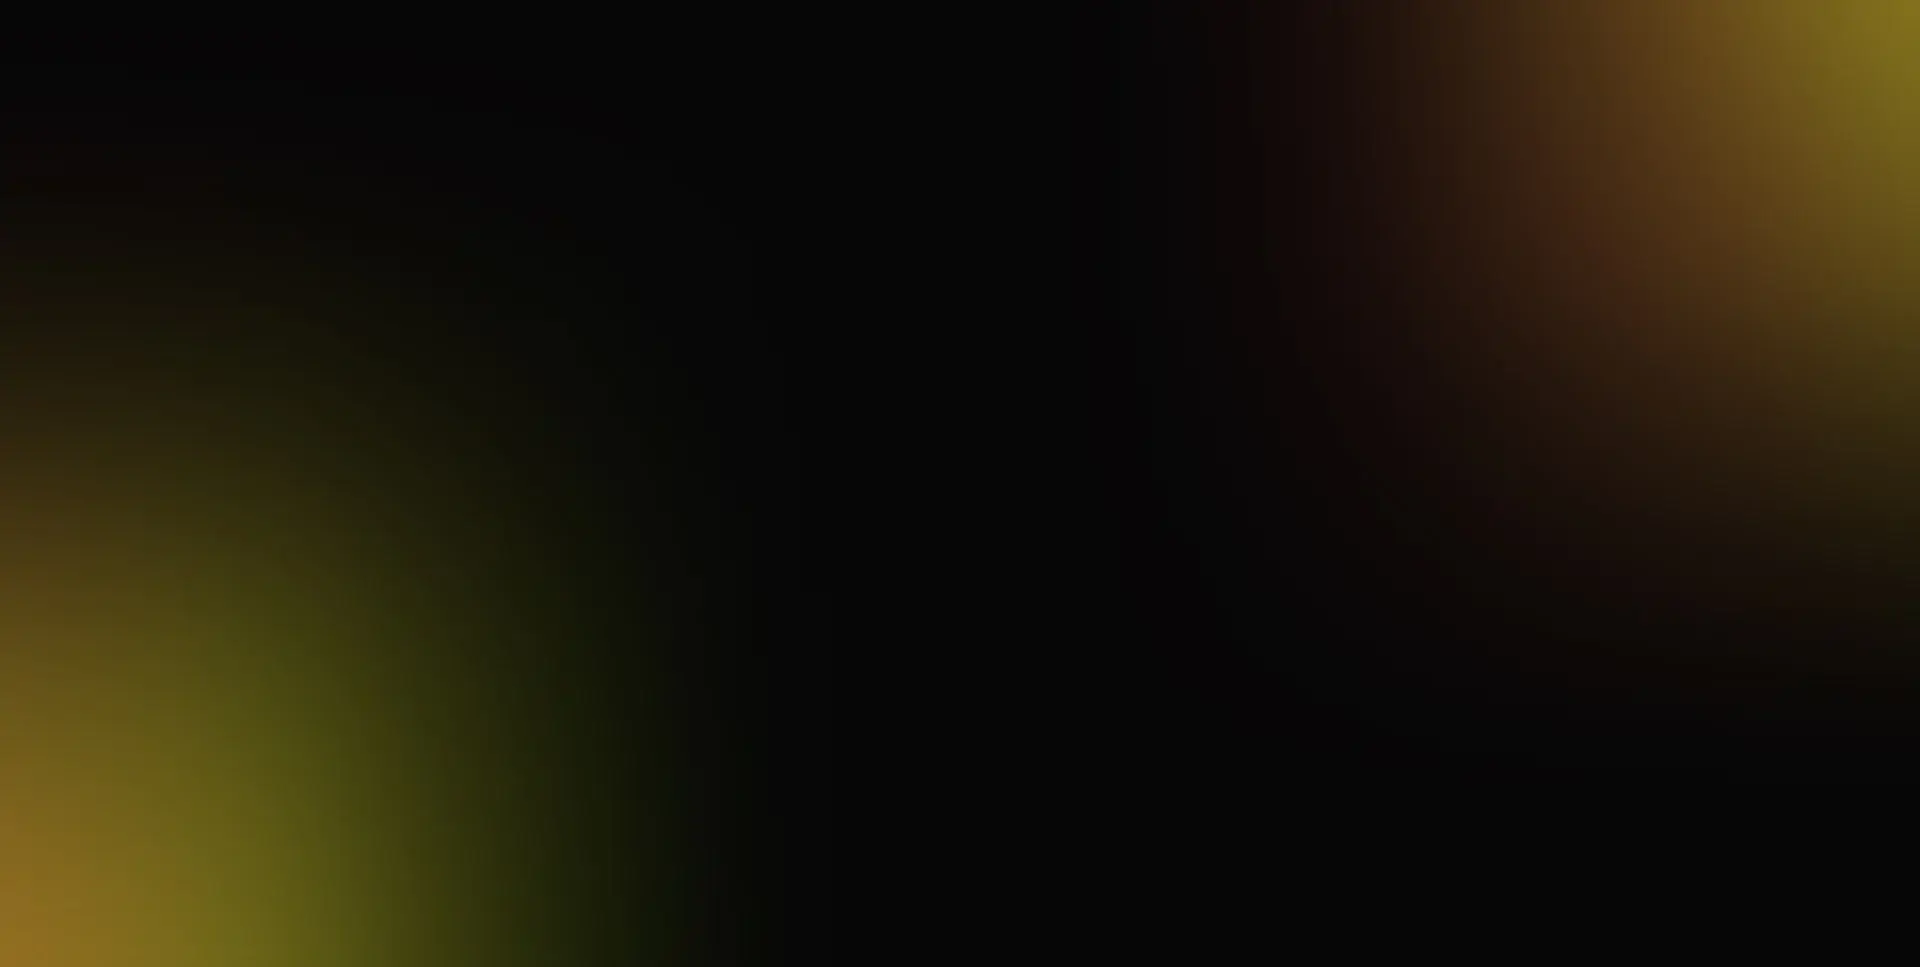
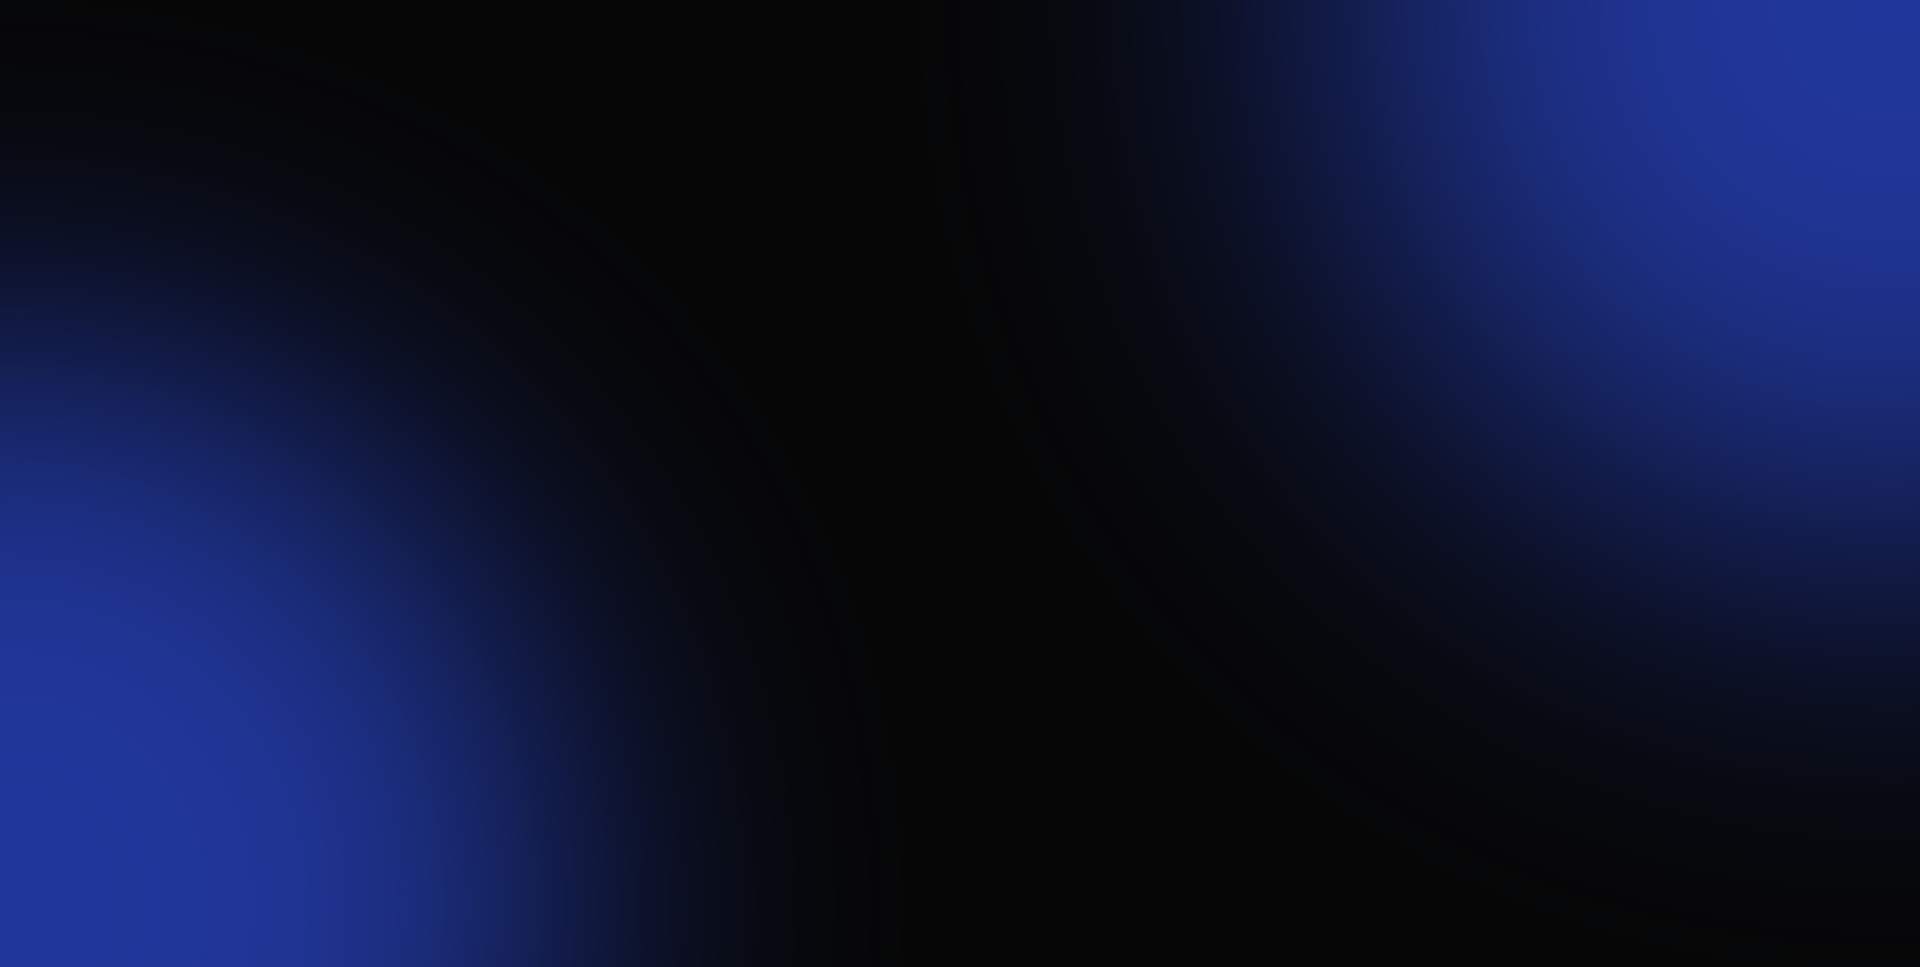
new changes

diff --git a/components/sections/HeroSection.jsx b/components/sections/HeroSection.jsx
@@ -1,107 +1,159 @@
 "use client";
+import React, { useRef, useState } from "react";
 import { withBasePath } from "@/lib/asset";
 import { homeData } from "@/lib/data/home";
 
-const HeroSection = () => (
-  <section className="hero-section"
-    style={{ width: "100%", position: "relative", paddingTop: "95px", minHeight: "80vh", lineHeight: 0, background: "#030303", overflow: "hidden" }}
-    data-background={homeData.hero.bgImage}>
+const HeroSection = () => {
+  const videoRef = useRef(null);
+  const [isMuted, setIsMuted] = useState(true);
 
-    <video
-      autoPlay
-      loop
-      muted
-      playsInline
-      className="bg_video"
-      style={{
-        width: "100%",
-        height: "auto",
-        display: "block",
-      }}
-    >
-      <source src={withBasePath(homeData.hero.videoSrc)} type="video/mp4" />
-    </video>
+  const toggleMute = (e) => {
+    e.stopPropagation();
+    if (videoRef.current) {
+      videoRef.current.muted = !videoRef.current.muted;
+      setIsMuted(videoRef.current.muted);
+    }
+  };
 
-    <div
-      style={{
-        display: "flex",
-        flexDirection: "column",
-        alignItems: "center",
-        justifyContent: "center",
-        zIndex: 10,
-        padding: "40px 0 20px 0",
-        pointerEvents: "none",
-        opacity: 0.6,
-        background: "transparent"
-      }}
-      className="scroll-indicator"
-    >
-      <div className="mouse-icon">
-        <div className="wheel"></div>
+  return (
+    <section className="hero-section"
+      style={{ width: "100%", position: "relative", paddingTop: "95px", minHeight: "80vh", lineHeight: 0, background: "#030303", overflow: "hidden" }}
+      data-background={homeData.hero.bgImage}>
+
+      <video
+        ref={videoRef}
+        autoPlay
+        loop
+        muted={isMuted}
+        playsInline
+        className="bg_video"
+        style={{
+          width: "100%",
+          height: "auto",
+          display: "block",
+        }}
+      >
+        <source src={withBasePath(homeData.hero.videoSrc)} type="video/mp4" />
+      </video>
+
+      {/* Mute/Unmute Toggle Button */}
+      <button 
+        onClick={toggleMute}
+        style={{
+          position: "absolute",
+          bottom: "30px",
+          right: "30px",
+          background: "rgba(0,0,0,0.4)",
+          backdropFilter: "blur(10px)",
+          border: "1px solid rgba(255,255,255,0.15)",
+          borderRadius: "50%",
+          width: "46px",
+          height: "46px",
+          display: "flex",
+          alignItems: "center",
+          justifyContent: "center",
+          color: "#fff",
+          zIndex: 100,
+          cursor: "pointer",
+          transition: "all 0.3s ease",
+          boxShadow: "0 4px 15px rgba(0,0,0,0.3)"
+        }}
+        onMouseEnter={(e) => {
+          e.currentTarget.style.background = "rgba(50, 87, 255, 0.4)";
+          e.currentTarget.style.borderColor = "rgba(50, 87, 255, 0.6)";
+          e.currentTarget.style.transform = "scale(1.1)";
+        }}
+        onMouseLeave={(e) => {
+          e.currentTarget.style.background = "rgba(0,0,0,0.4)";
+          e.currentTarget.style.borderColor = "rgba(255,255,255,0.15)";
+          e.currentTarget.style.transform = "scale(1)";
+        }}
+        aria-label={isMuted ? "Unmute" : "Mute"}
+      >
+        <i className={`fa-solid ${isMuted ? "fa-volume-mute" : "fa-volume-high"}`} style={{ fontSize: "18px" }}></i>
+      </button>
+
+      <div
+        style={{
+          display: "flex",
+          flexDirection: "column",
+          alignItems: "center",
+          justifyContent: "center",
+          zIndex: 10,
+          padding: "40px 0 20px 0",
+          pointerEvents: "none",
+          opacity: 0.6,
+          background: "transparent"
+        }}
+        className="scroll-indicator"
+      >
+        <div className="mouse-icon">
+          <div className="wheel"></div>
+        </div>
+        <div className="chevron-arrows">
+          <span></span>
+          <span></span>
+          <span></span>
+        </div>
       </div>
-      <div className="chevron-arrows">
-        <span></span>
-        <span></span>
-        <span></span>
-      </div>
-    </div>
 
-    <style jsx>{`
-      .scroll-indicator:hover {
-        opacity: 1 !important;
-      }
-      .mouse-icon {
-        width: 30px;
-        height: 50px;
-        border: 2px solid #fff;
-        border-radius: 15px;
-        position: relative;
-        margin-bottom: 5px;
-      }
-      .wheel {
-        width: 4px;
-        height: 8px;
-        background-color: #1B3B8A;
-        border-radius: 2px;
-        position: absolute;
-        top: 8px;
-        left: 50%;
-        margin-left: -2px;
-        animation: scrollWheel 2s infinite ease-out;
-      }
-      .chevron-arrows {
-        display: flex;
-        flex-direction: column;
-        alignItems: "center";
-        margin-top: -8px;
-      }
-      .chevron-arrows span {
-        display: block;
-        width: 10px;
-        height: 10px;
-        border-bottom: 2px solid #fff;
-        border-right: 2px solid #fff;
-        transform: rotate(45deg);
-        margin: -3px auto;
-        animation: chevronBounce 2s infinite;
-      }
-      .chevron-arrows span:nth-child(2) {
-        animation-delay: 0.2s;
-      }
-      .chevron-arrows span:nth-child(3) {
-        animation-delay: 0.4s;
-      }
-      @keyframes scrollWheel {
-        0% { transform: translateY(0); opacity: 1; }
-        100% { transform: translateY(15px); opacity: 0; }
-      }
-      @keyframes chevronBounce {
-        0% { opacity: 0; transform: rotate(45deg) translate(-5px, -5px); }
-        50% { opacity: 1; }
-        100% { opacity: 0; transform: rotate(45deg) translate(5px, 5px); }
-      }
-    `}</style>
-  </section>
-);
+      <style jsx>{`
+        .scroll-indicator:hover {
+          opacity: 1 !important;
+        }
+        .mouse-icon {
+          width: 30px;
+          height: 50px;
+          border: 2px solid #fff;
+          border-radius: 15px;
+          position: relative;
+          margin-bottom: 5px;
+        }
+        .wheel {
+          width: 4px;
+          height: 8px;
+          background-color: #1B3B8A;
+          border-radius: 2px;
+          position: absolute;
+          top: 8px;
+          left: 50%;
+          margin-left: -2px;
+          animation: scrollWheel 2s infinite ease-out;
+        }
+        .chevron-arrows {
+          display: flex;
+          flex-direction: column;
+          alignItems: "center";
+          margin-top: -8px;
+        }
+        .chevron-arrows span {
+          display: block;
+          width: 10px;
+          height: 10px;
+          border-bottom: 2px solid #fff;
+          border-right: 2px solid #fff;
+          transform: rotate(45deg);
+          margin: -3px auto;
+          animation: chevronBounce 2s infinite;
+        }
+        .chevron-arrows span:nth-child(2) {
+          animation-delay: 0.2s;
+        }
+        .chevron-arrows span:nth-child(3) {
+          animation-delay: 0.4s;
+        }
+        @keyframes scrollWheel {
+          0% { transform: translateY(0); opacity: 1; }
+          100% { transform: translateY(15px); opacity: 0; }
+        }
+        @keyframes chevronBounce {
+          0% { opacity: 0; transform: rotate(45deg) translate(-5px, -5px); }
+          50% { opacity: 1; }
+          100% { opacity: 0; transform: rotate(45deg) translate(5px, 5px); }
+        }
+      `}</style>
+    </section>
+  );
+};
 
 export default HeroSection;
